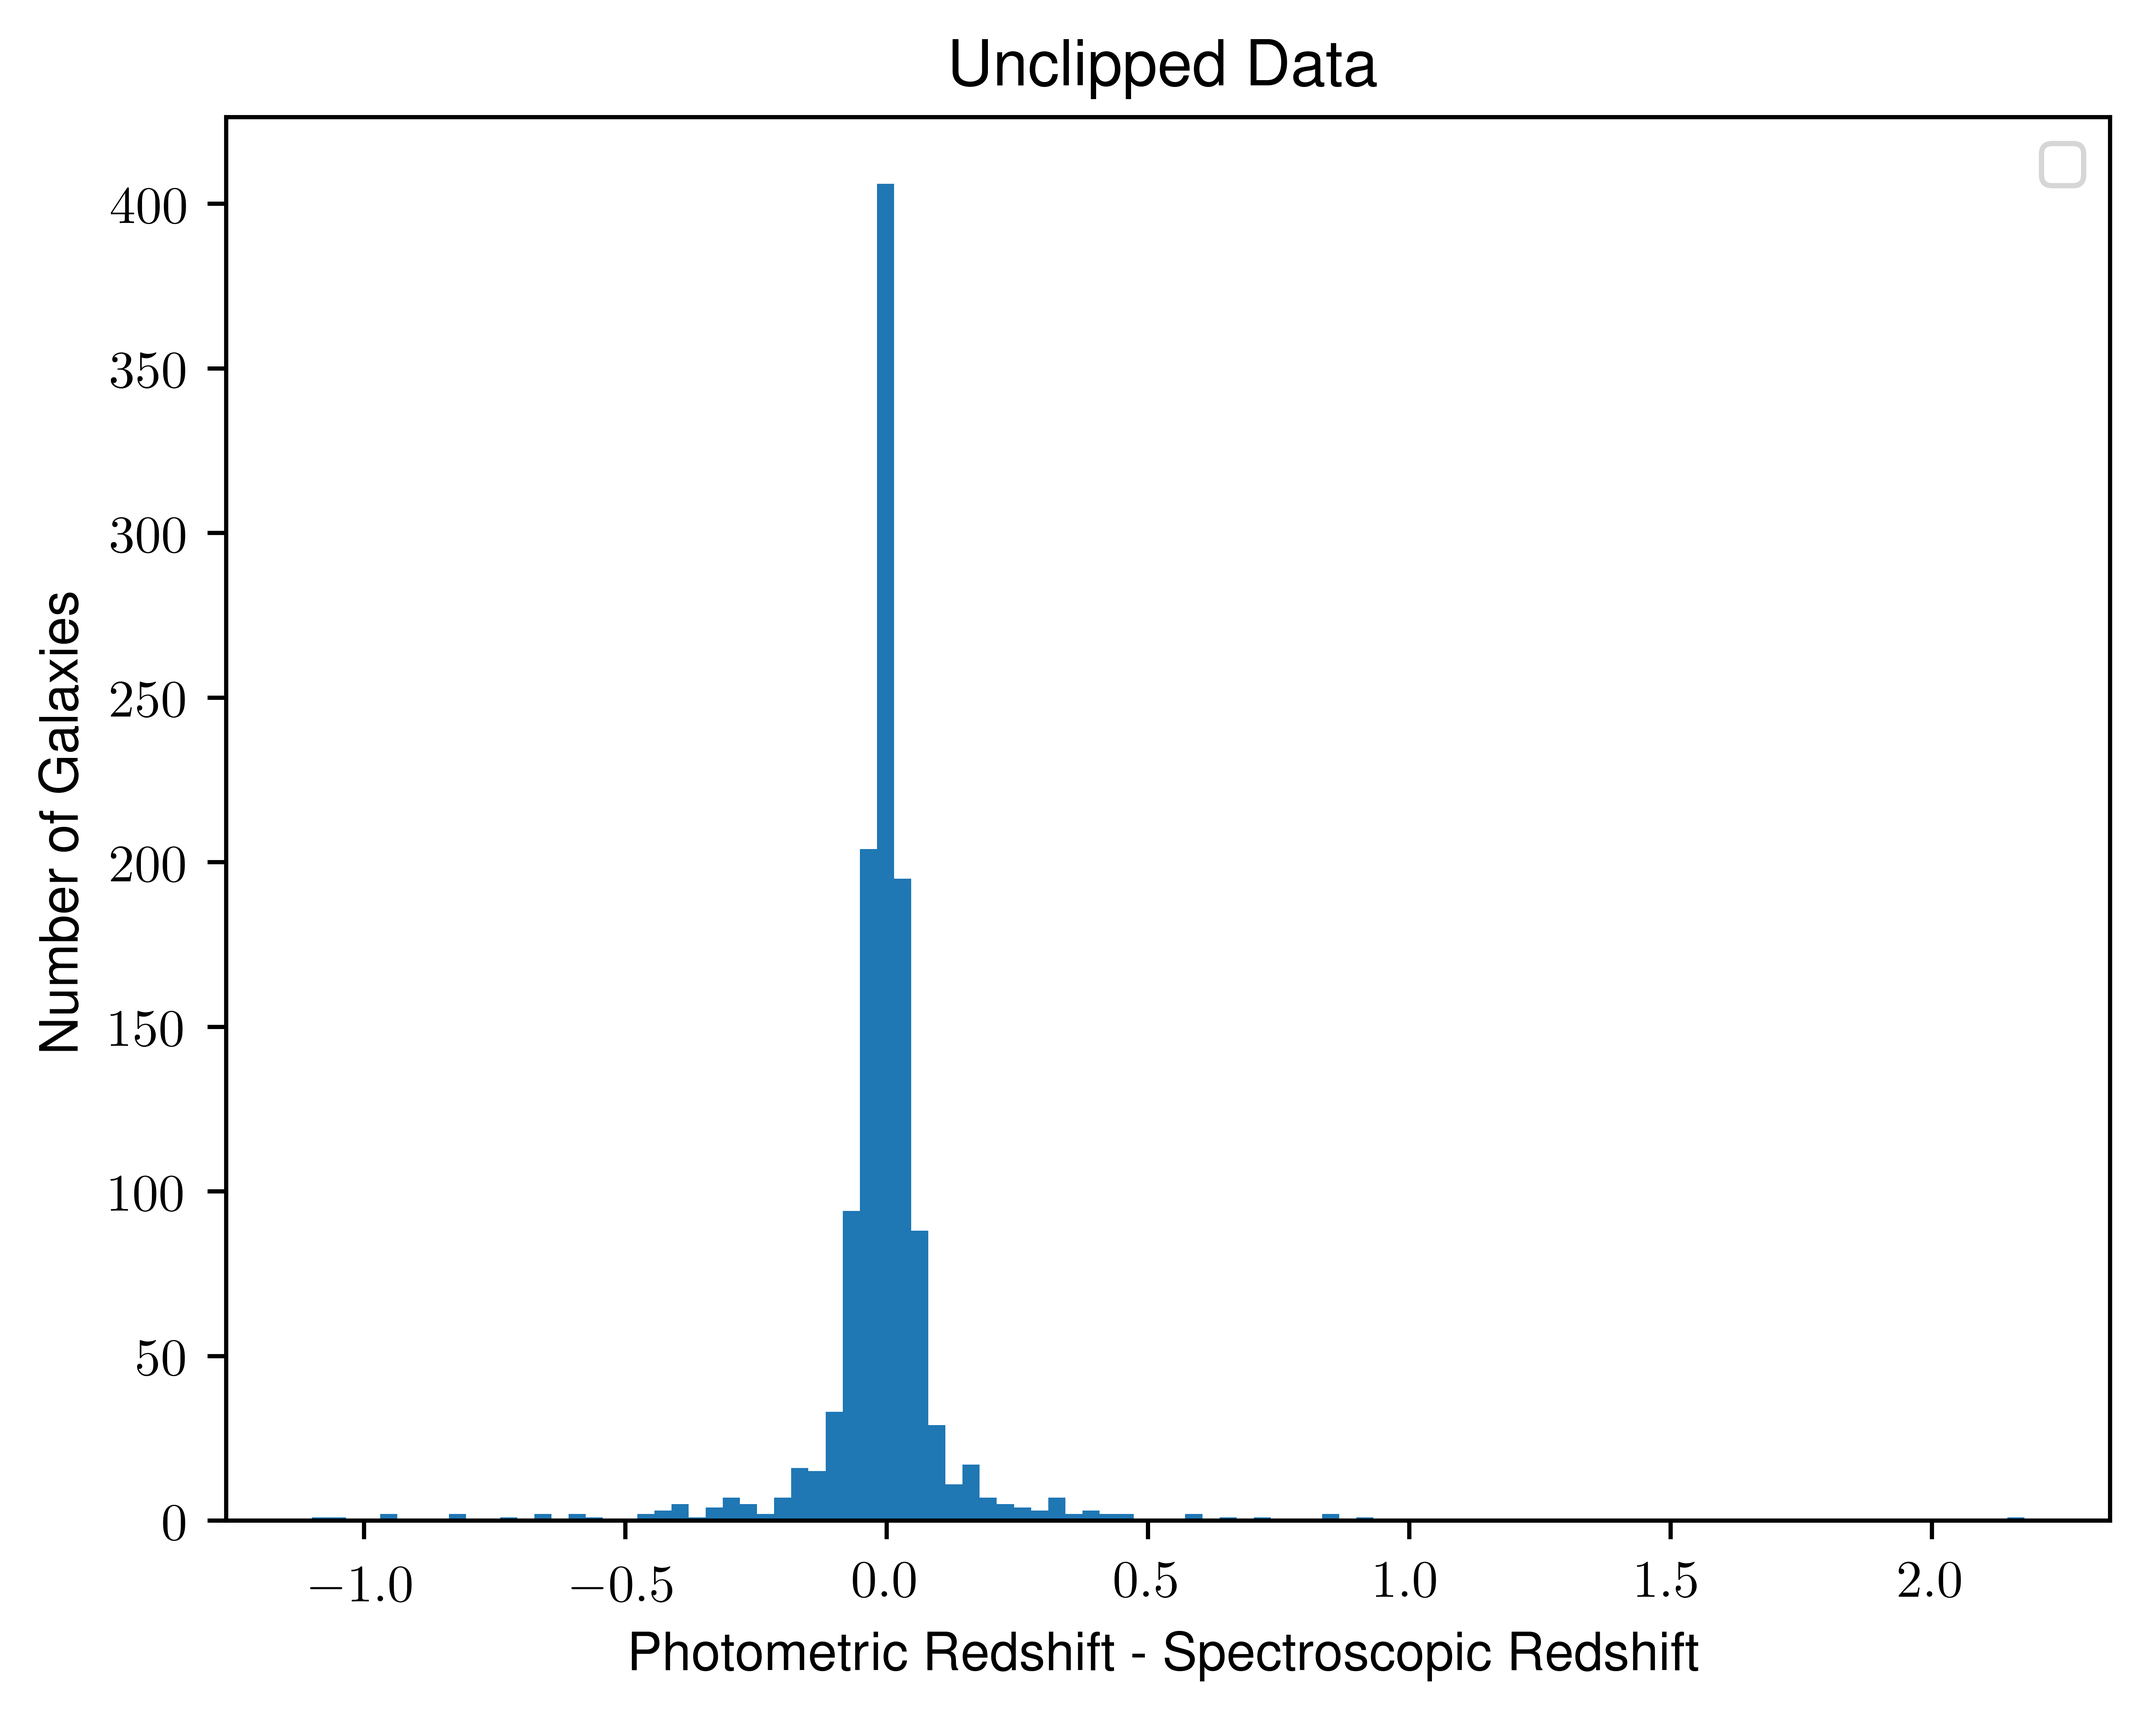
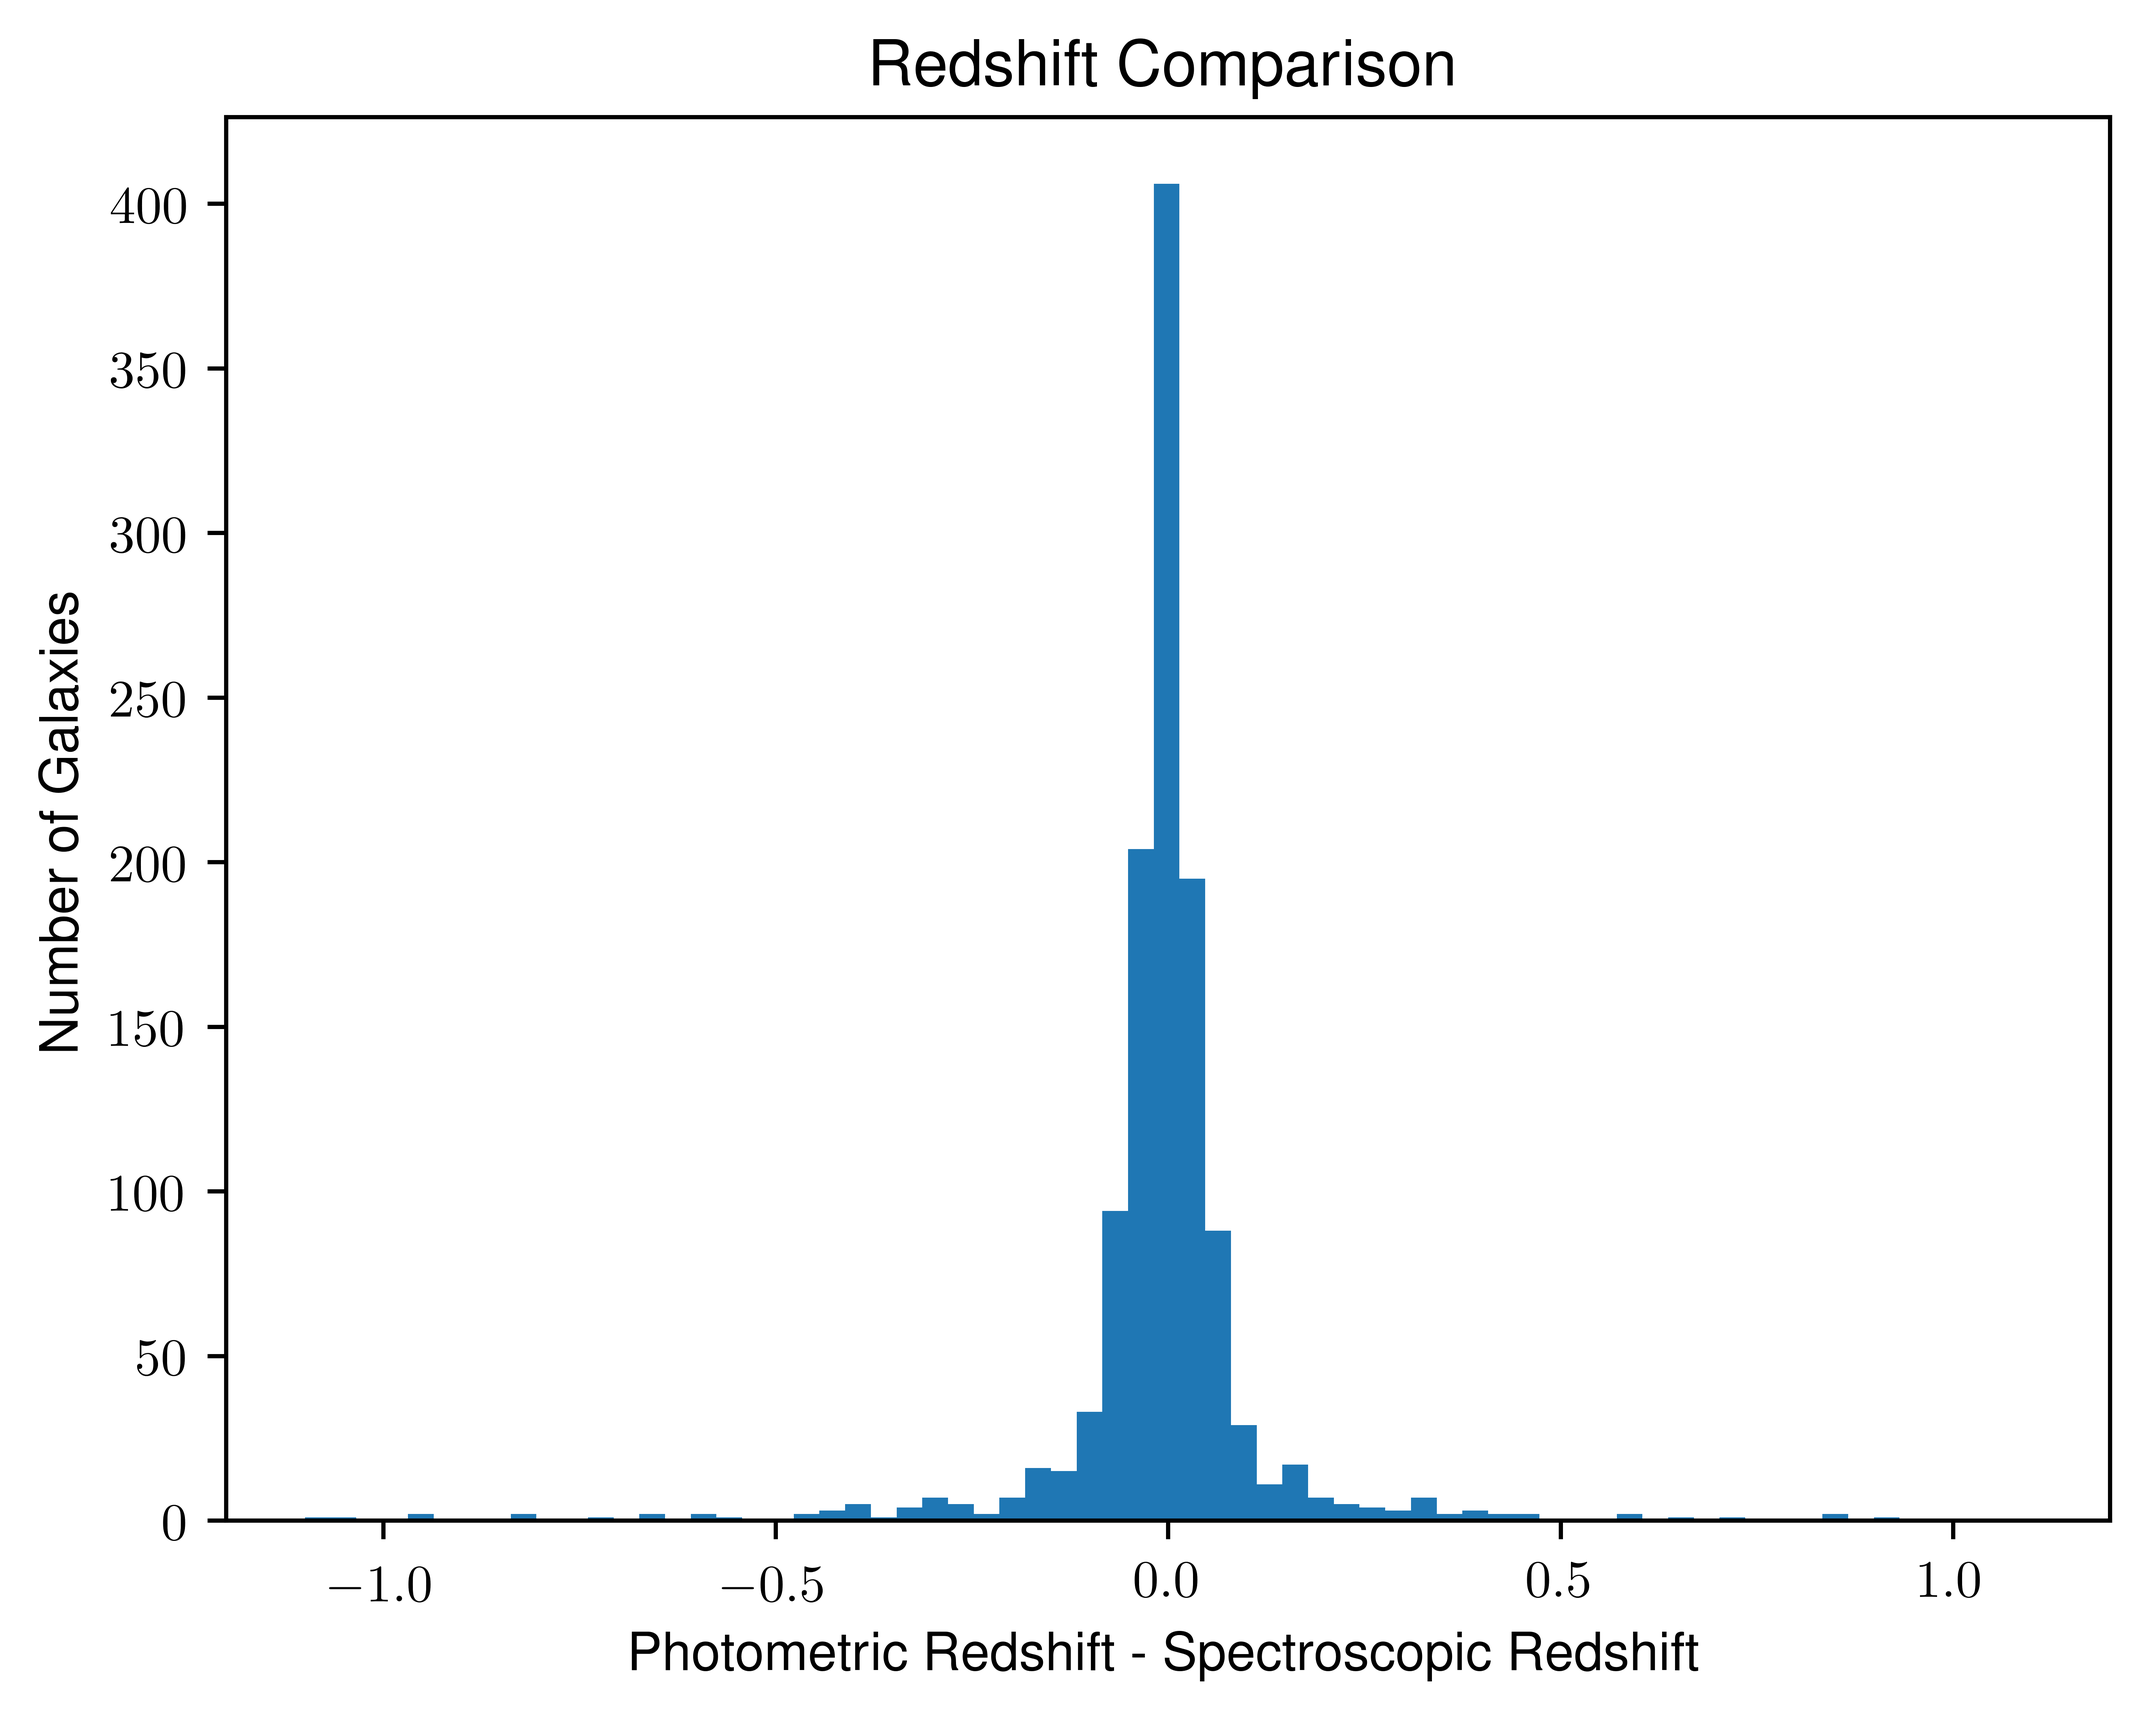
fix photoVsSpec plots

diff --git a/scripts/photoVsSpec.py b/scripts/photoVsSpec.py
@@ -27,20 +27,20 @@ cat2 = False
 
 pwd  = "/home/ebiermann/cat/mag_matchCat/"
 if cat1:
-    #fname_match = 'match4_1as1mag_3as1mag.fits'
-    fname_match = 'match5_goodObjects.fits'
+    fname_match = 'match4_1as1mag_3as1mag.fits'
 if cat2:
-    fname_match = 'match3_3as1mag_rem.fits'
+    fname_match = 'match5_goodObjects.fits'
 
 # Save Figures?
 save = True
 if save:
     if cat1:
         figpwd = '/home/ebiermann/Cosmo-Research/figures/mag_matchCat/all/redshift/'
-        tag = 'lensingAnalysis' # tag for figure names
+        tag = 'all' # tag for figure names
     if cat2:
-        figpwd = '/home/ebiermann/Cosmo-Research/figures/mag_matchCat/match3_rem/redshift/'
-        tag = 'match3rem'
+        #figpwd = '/home/ebiermann/Cosmo-Research/figures/mag_matchCat/match3_rem/redshift/'
+        figpwd = '/home/ebiermann/Cosmo-Research/figures/mag_matchCat/all/redshift/'
+        tag = 'lensingAnalysis'
 
 # Show Figures?
 show = True
@@ -120,7 +120,7 @@ x=np.linspace(0,np.amax(specZ))
 y=x
 
 plt.figure()
-plt.title(r'Redshift Comparison for Lensing Analysis Objects')
+plt.title(r'Redshift Comparison')
 plt.xlabel(r'SpecZ from Crawford')
 plt.ylabel(r'PhotoZ from WtG')
 #plt.errorbar(specZ, photoZ, xerr=specZ_err, yerr=photoZ_err, fmt='x')
@@ -148,13 +148,14 @@ print 'stdev = {}'.format(stdev)
 print 
 # Plot Figure
 plt.figure()
-plt.title(r'Redshift Comparison for Lensing Analysis Objects')
+plt.xlim(-1.2,1.2)
+plt.title(r'Redshift Comparison')
 plt.xlabel(r'Photometric Redshift - Spectroscopic Redshift')
 plt.ylabel(r'Number of Galaxies')
 plt.hist(points,range=[cmin,cmax], bins=nbins);
 #plt.plot(xarray,yarray,color="red",linewidth=1.0,label='Gaussian Fit')
 #plt.axvline(x=mean,linewidth=1.0,color="yellow",label='mean')
-plt.legend()
+#plt.legend()
 text_stats = r'''\noindent $\mu = {:.3f}$ \\'''.format(mean) + \
              r'''$\sigma = {:.3f}$ \\'''.format(stdev)
 #plt.text(1.3,325,text_stats,{'fontsize':20})
